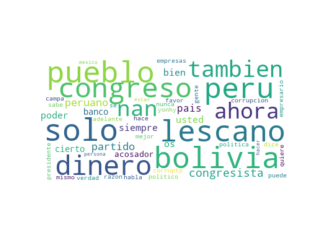
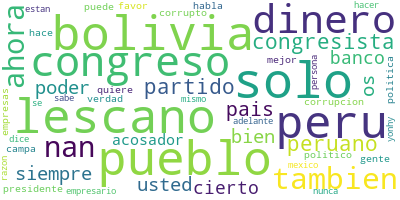
Mostrar Wordcloud
Al seleccionar el congresistas, se genera la imagen del wordcloud y se muestra en la web.

diff --git a/GITHUB_CONGRESISTAS/Flask_Blog/flaskblog/congresistas.py b/GITHUB_CONGRESISTAS/Flask_Blog/flaskblog/congresistas.py
@@ -58,40 +58,36 @@ class Congresistas:
     tweets_df["full_text"] = tweets_df["full_text"].apply(lambda x: " ".join(x for x in x.split() if len(x)>3))
     return tweets_df
 
-
-  def DrawWordCloud( df):
+  @staticmethod
+  def DrawWordCloud( df, filename):
       text = df["full_text"].values.tolist()
       words = str(text)
       words = re.sub("[^a-z]+", " ", words)
 
       wordcloud = WordCloud(max_font_size = 50, max_words = 50, background_color = "white").generate(words)
+      wordcloud.to_file("flaskblog/"+filename)
+      return filename
 
-      plt.figure()
-      plt.imshow(wordcloud, interpolation = "bilinear")
-      plt.axis("off")
-      #plt.show()
-      return plt
-
-
+  @staticmethod
   def getCongresistas():
       congresistas = pd.read_excel("congresistasCuentasTwitter.xlsx", sheet_name="congresistas")
       columns = ["name","twitter_user", "twitter_username","auxiliar_query"]
       congresistasDF = congresistas[columns]
       return congresistasDF
 
+  @staticmethod
   def mostrarWordCloud(user):
       csv = "flaskblog/csv/congresista"+user+".csv"
       
       try:
         data = pd.read_csv(csv)
-        
-        #imagen = Congresistas.DrawWordCloud(data)
         imagenPath = "static/images/"+user+".png"
-        #imagen.savefig(imagenPath, dpi=50)
-        return imagenPath
-      except:
-          print('the whatever error occurred.')
-          return "Error"
+        imagen = Congresistas.DrawWordCloud(data, imagenPath)
+        
+        return imagen
+      except Exception as e:
+        print(e)
+        return "Error"
       
 
 
